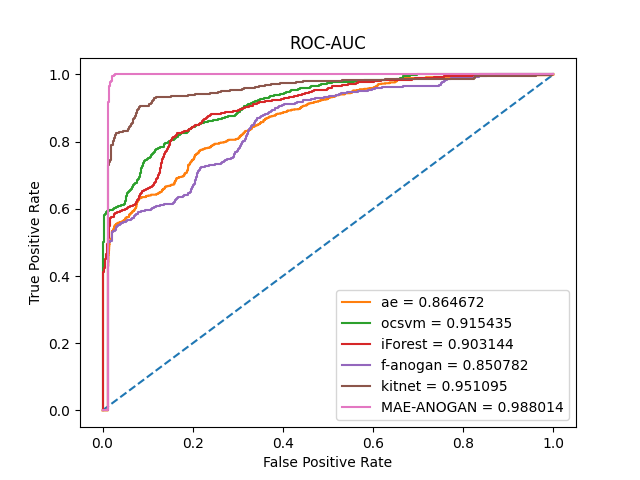
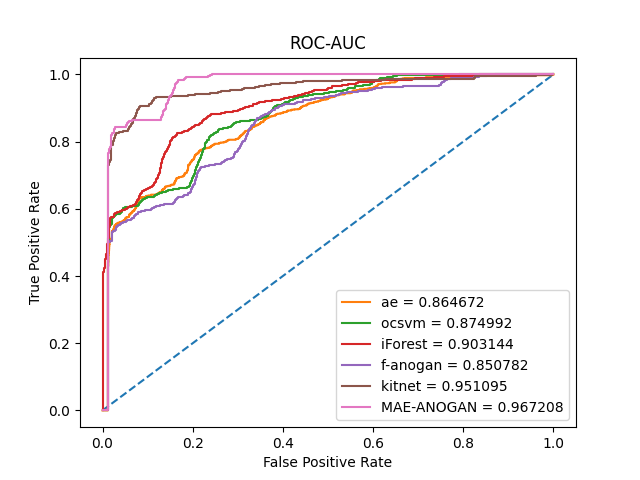
123

diff --git a/visual-UNSW/visual.py b/visual-UNSW/visual.py
@@ -105,11 +105,12 @@ plt.xlabel("False Positive Rate")
 plt.ylabel("True Positive Rate")
 
 fgan("/root/bishe/MAE-ANOGAN-UNSW/results/score-ok.csv", "ae")
-txt("/root/bishe/ocsvm/UNSW_best_params_fin.txt", "ocsvm")
+fgan("/root/bishe/f-anogan-UNSW/results/score-11.csv", "ocsvm")
+# txt("/root/bishe/ocsvm/UNSW_best_params_fin.txt", "ocsvm")
 txt("/root/bishe/iForest/UNSW_best_params-11.txt", "iForest")
 fgan("/root/bishe/f-anogan-UNSW/results/score.csv", "f-anogan")
 kitnet("/root/bishe/kitnet/UNSW/RMSEs10.csv", "kitnet")
-maegan("/root/bishe/MAE-ANOGAN-UNSW/results/score-ok.csv", "MAE-ANOGAN")
+maegan("/root/bishe/MAE-ANOGAN-UNSW/results/score.csv", "MAE-ANOGAN")
 
 # txt("DeepSVDD_config6_run1.txt", "DeepSVDD")
 # txt("SLAD_config12_run1_fake.txt", "SLAD")
